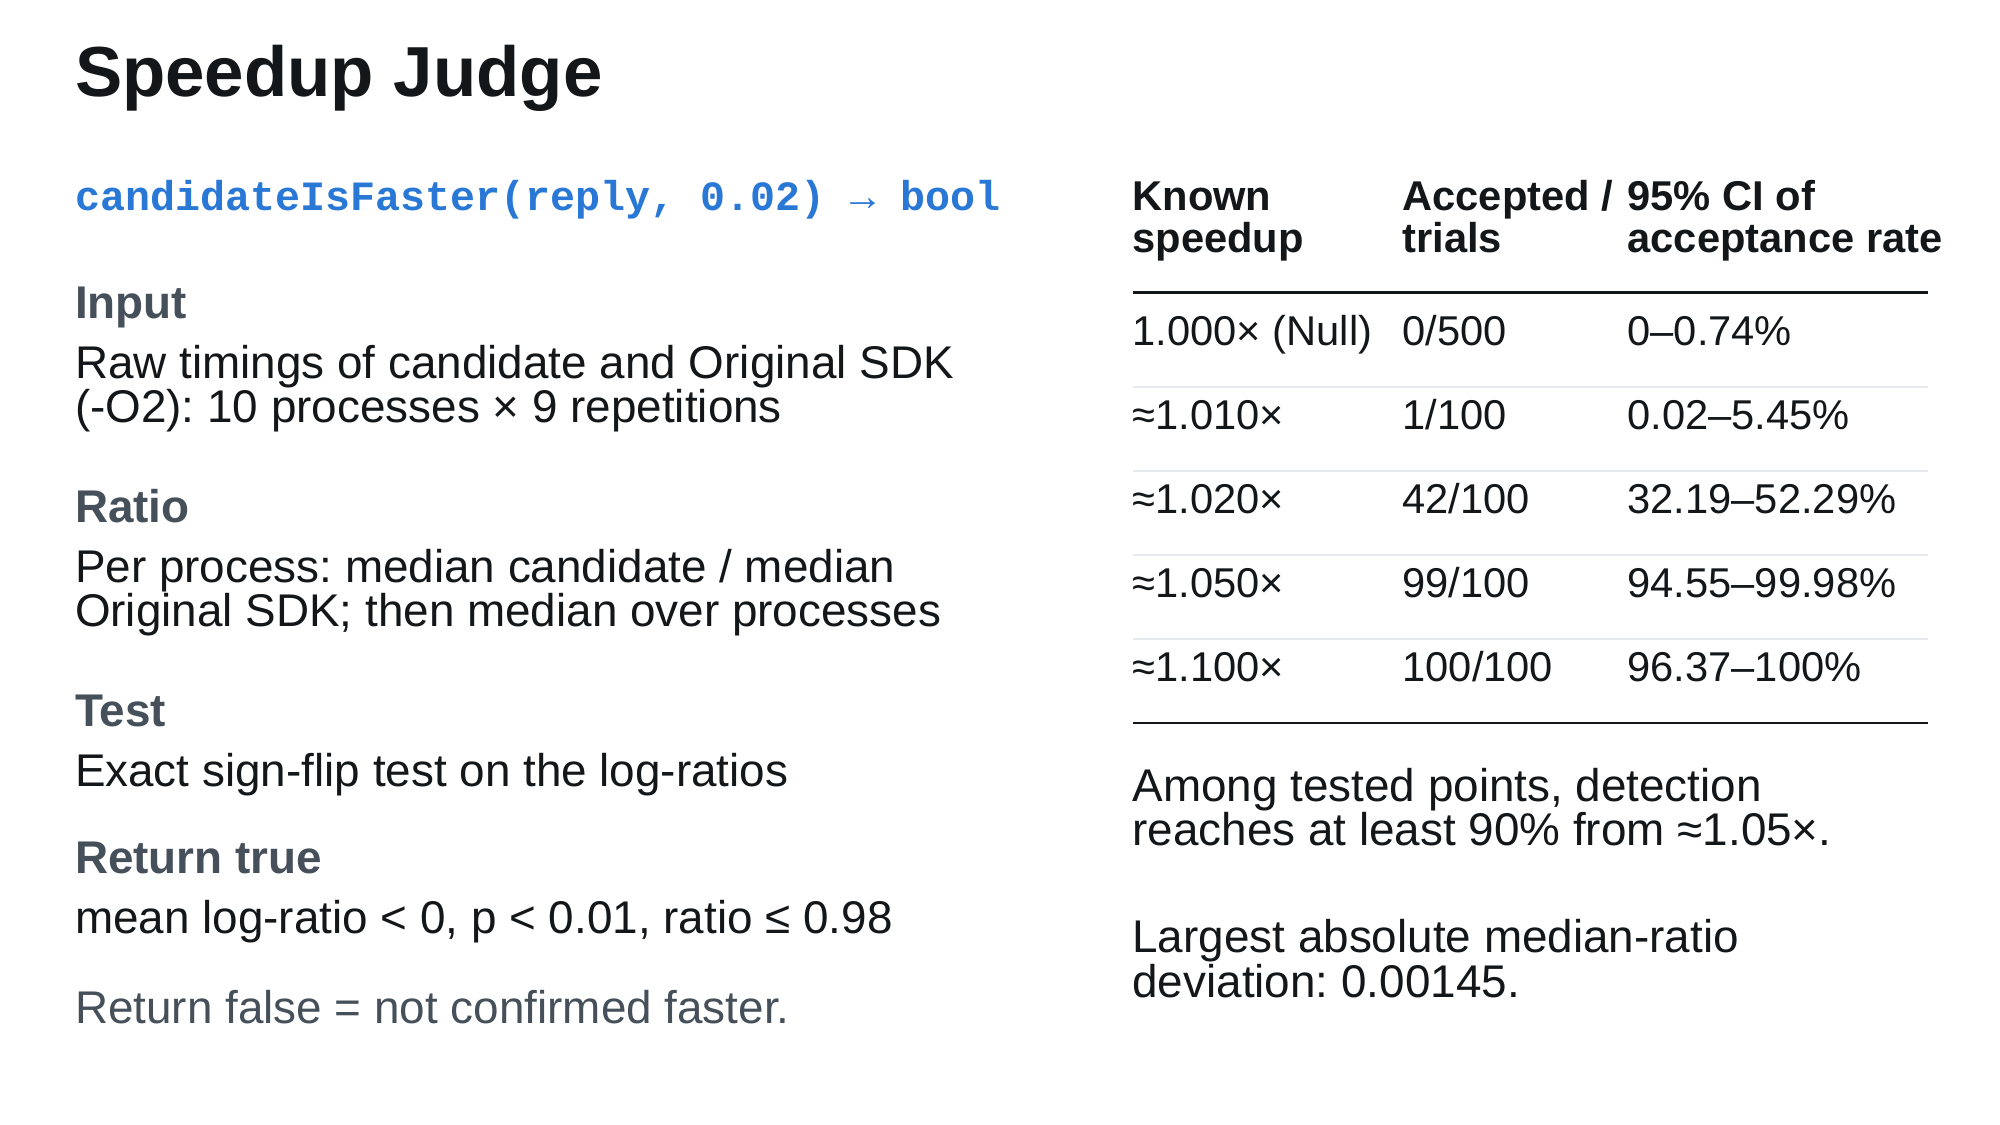
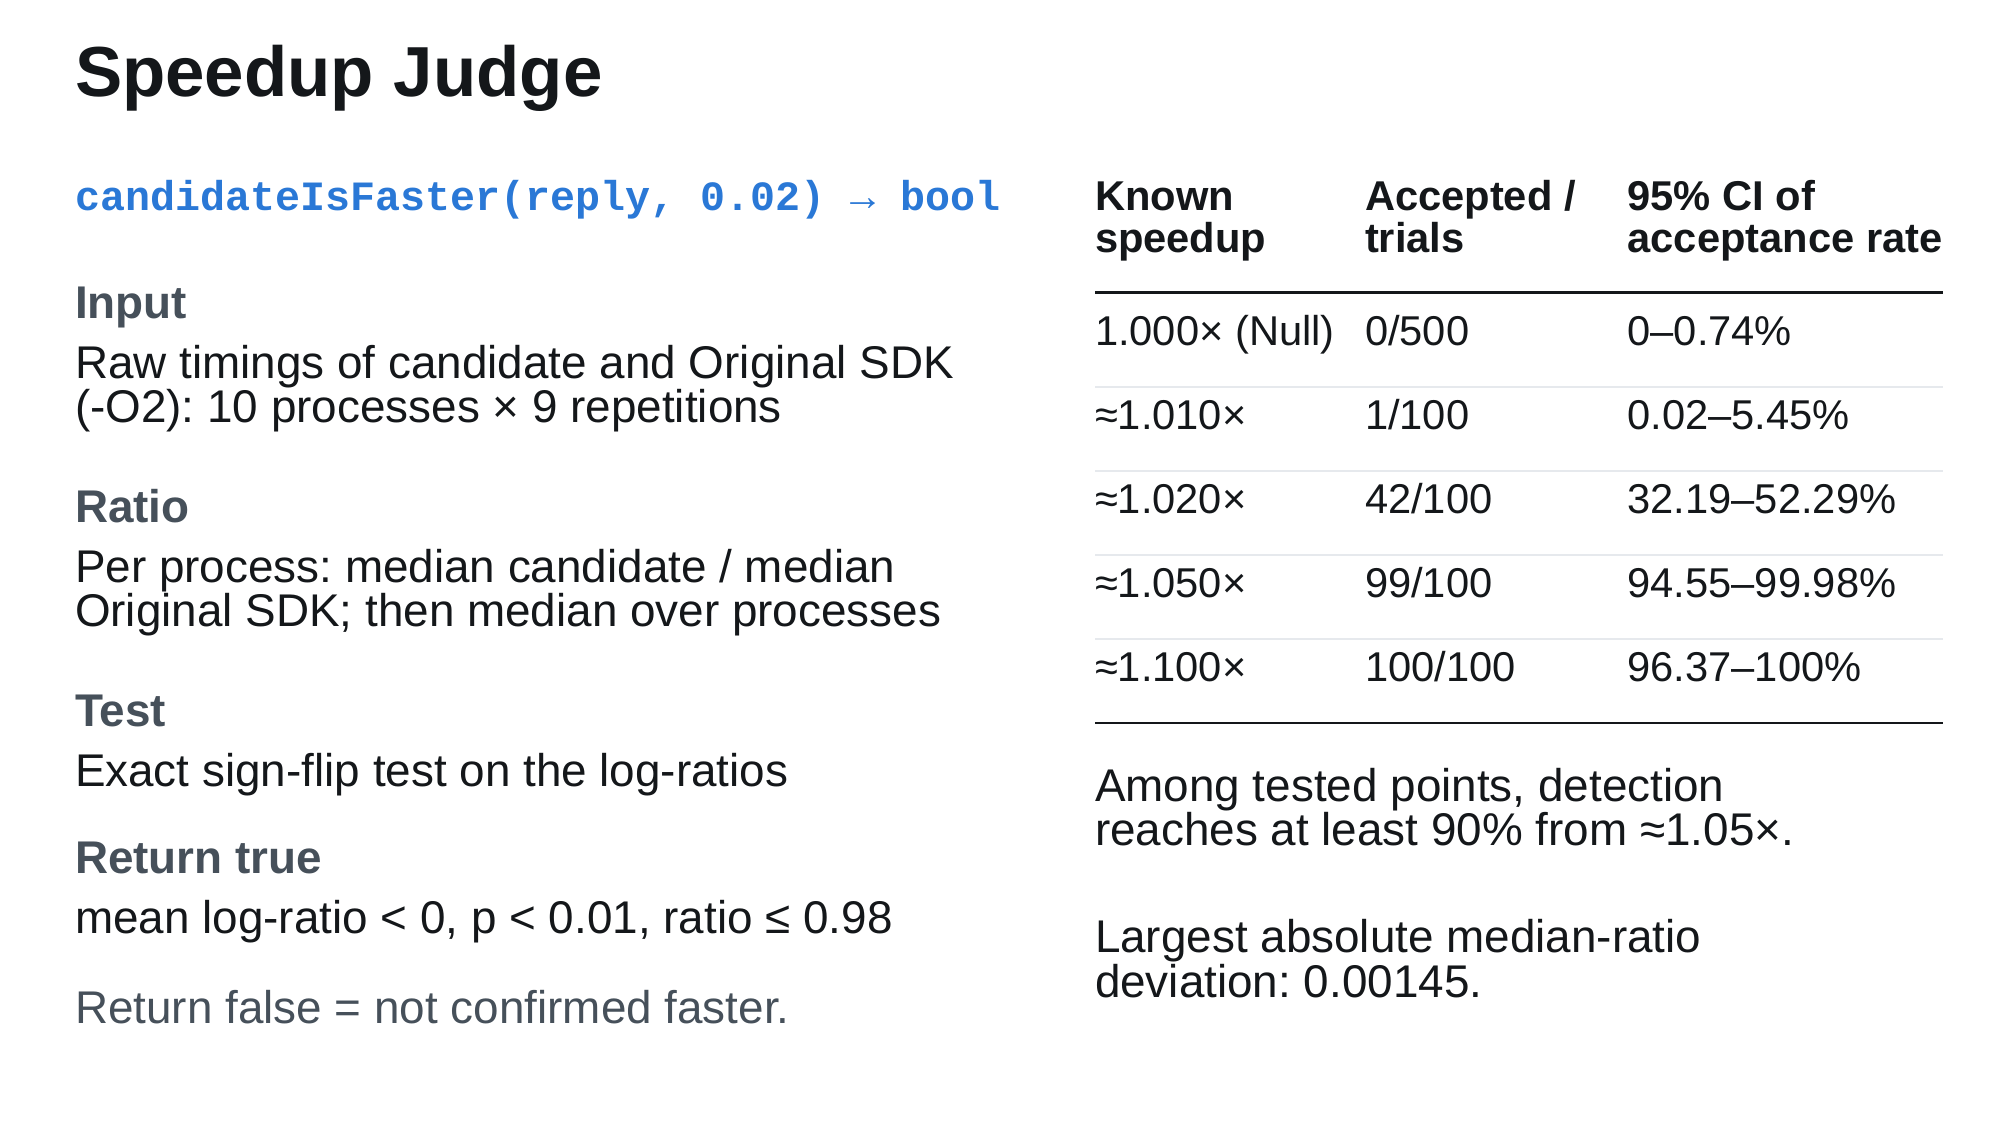
Slides v2: wider table header gaps, per-model colors on page 2, remove two caption lines

diff --git a/presentation_slides/make_slides_v2.py b/presentation_slides/make_slides_v2.py
@@ -16,6 +16,7 @@ HERE = Path(__file__).resolve().parent; DATA = HERE / "data"
 W, H = 13.333, 7.5
 INK, INK2, MUTED, GRID, RULE = "#14171a", "#46505a", "#7a838c", "#e6e9ed", "#b9c0c8"
 BLUE, ORANGE, GREY = "#2a78d6", "#d9780f", "#8d949c"
+Q_POP, Q_BON, D_POP, D_BON = "#c2540a", "#f2a65a", "#1f5fb8", "#7fb2ec"   # Qwen: dark/light orange; DeepSeek: dark/light blue
 plt.rcParams.update({"font.family": "Liberation Sans", "pdf.fonttype": 42, "text.color": INK})
 TITLE, BODY, CELL = 34, 22, 20
 
@@ -60,7 +61,7 @@ def slide1():
     for key, lab in (("faster-1-percent", "\u22481.010\u00d7"), ("faster-2-percent", "\u22481.020\u00d7"), ("faster-5-percent", "\u22481.050\u00d7"), ("faster-10-percent", "\u22481.100\u00d7")):
         r = cal[key]; rows.append((lab, int(r["judged_faster"]), int(r["valid_trials"]), float(r["cp95_lo"]), float(r["cp95_hi"])))
     assert [(a, b) for _, a, b, _, _ in rows] == [(0, 500), (1, 100), (42, 100), (99, 100), (100, 100)]
-    tx = [7.55, 9.35, 10.85]; x_end = 12.85
+    tx = [7.3, 9.1, 10.85]; x_end = 12.95
     T(ax, tx[0], 1.2, "Known\nspeedup", size=CELL, weight="bold", linespacing=1.1)
     T(ax, tx[1], 1.2, "Accepted /\ntrials", size=CELL, weight="bold", linespacing=1.1)
     T(ax, tx[2], 1.2, "95% CI of\nacceptance rate", size=CELL, weight="bold", linespacing=1.1)
@@ -101,14 +102,14 @@ def slide2():
         for meth in ("Population search", "Best-of-N"):
             sel = [r for r in runs if r["model"] == model and r["method"] == meth]; assert len(sel) == 5
             v = [float(r["speedup"]) for r in sel]; tok = st.median([float(r["total_tokens"]) for r in sel])
-            rowsp.append((f"{model}: {meth}", st.median(v), (min(v), max(v)), tok, BLUE if meth.startswith("Pop") else ORANGE))
+            col = {("Qwen", "Population search"): Q_POP, ("Qwen", "Best-of-N"): Q_BON, ("DeepSeek", "Population search"): D_POP, ("DeepSeek", "Best-of-N"): D_BON}[(model, meth)]
+            rowsp.append((f"{model}: {meth}", st.median(v), (min(v), max(v)), tok, col))
     exp = [1.090, 1.108, 1.068, 1.082, 1.0745, 1.0560, 1.1648, 1.0732]
     assert all(abs(r[1] - e) < 6e-4 for r, e in zip(rowsp, exp)), [r[1] for r in rowsp]
     fig, ax = new_slide(); title(ax, "Search Results")
     T(ax, 0.5, 1.0, "Select a function in a parent patch → LLM rewrite → check and time → update population", size=BODY)
     T(ax, 0.5, 1.45, "C3: Best-of-N comparison · C4: 5 seeds, 40 requests per run", size=BODY, weight="bold")
-    T(ax, 0.5, 1.85, "Dot = median · line = full range of the five seeds (not a confidence interval)", size=BODY, color=INK2)
-    AL, AR, AT, AB = 4.45, 9.75, 2.8, 5.45   # axes box in inches (x left/right, y top/bottom of slide)
+    AL, AR, AT, AB = 4.45, 9.75, 2.55, 5.45   # axes box in inches (x left/right, y top/bottom of slide)
     a = fig.add_axes([AL / W, 1 - AB / H, (AR - AL) / W, (AB - AT) / H]); a.set_facecolor("white")
     a.set_xlim(0.99, 1.22); a.set_ylim(len(rowsp) - 0.5, -0.5)
     for sp in ("top", "right", "left"): a.spines[sp].set_visible(False)
@@ -121,7 +122,7 @@ def slide2():
     a.set_xlabel("Speedup relative to Original SDK (-O2)", fontsize=CELL, color=INK2, labelpad=6)
     T(ax, 12.83, AT - 0.12, "Reported\ntokens/run", size=CELL, weight="bold", ha="right", va="bottom", linespacing=1.1)
     for i, (lab, m, rng, tok, col) in enumerate(rowsp):
-        if rng: a.plot(rng, [i, i], color=col, lw=5, solid_capstyle="round", alpha=0.55, zorder=3)
+        if rng: a.plot(rng, [i, i], color=col, lw=5, solid_capstyle="round", alpha=0.6, zorder=3)
         a.scatter([m], [i], s=130, color=col, edgecolor="white", linewidth=1.2, zorder=5)
         xr = (rng[1] if rng else m) + 0.004
         a.text(xr, i, f"{m:.3f}", fontsize=CELL, va="center", ha="left", color=INK, zorder=6)
@@ -165,8 +166,7 @@ def slide3():
         T(ax, cx[0], y, wa, size=CELL, linespacing=1.12); T(ax, cx[1], y, wb, size=CELL, linespacing=1.12)
         T(ax, cx[2], y, c_, size=CELL, weight="bold"); T(ax, cx[3], y, wd, size=CELL, linespacing=1.12)
         hline(ax, 0.5, xe, y + rh - 0.1, color=GRID if i < len(data) - 1 else INK, lw=1.2 if i < len(data) - 1 else 1.6)
-    T(ax, 0.5, 6.35, "A patch can have findings in more than one test.", size=BODY, color=INK2)
-    T(ax, 0.5, 6.8, "The supplied checks did not cover all failures found by the broader tests.", size=24, weight="bold")
+    T(ax, 0.5, 6.5, "The supplied checks did not cover all failures found by the broader tests.", size=24, weight="bold")
     return fig
 
 def main():

diff --git a/presentation_slides/speaker_notes_v2_zh.md b/presentation_slides/speaker_notes_v2_zh.md
@@ -13,7 +13,7 @@
 
 ## 第 2 页 Search Results(约 90 秒)
 - 搜索逻辑(一行):从父补丁选函数 → LLM 改写 → 检查并测速 → 更新种群。细节(种群 ≤6、失败反馈、提示词、函数选择概率)不在页面上讲。
-- 图:横轴是相对原版 SDK(-O2)的加速比,虚线 1.000×。点是中位数;四个模型配置的横线是 5 个种子的完整最小–最大范围,不是置信区间。C1/C2 只有中位数:它们是单独批次的重复测量,不是独立搜索种子。
+- 图:横轴是相对原版 SDK(-O2)的加速比,虚线 1.000×。配色:Qwen 为橙色(深=种群搜索,浅=best-of-N),DeepSeek 为蓝色(深=种群搜索,浅=best-of-N),C1/C2 灰色。点是中位数;四个模型配置的横线是 5 个种子的完整最小–最大范围(页面上已删除这句说明,口头需讲明:不是置信区间)。C1/C2 只有中位数:它们是单独批次的重复测量,不是独立搜索种子。
 - C3:匹配的 best-of-N 对照(同模型、同提示、每次从原库出发,无历史与反馈);C4:每个配置 5 个种子,每个运行 40 次实际 HTTP 请求。
 - 数值:Qwen 种群 1.0745 [1.0307, 1.1237];Qwen best-of-N 1.0560 [1.0389, 1.0727];DeepSeek 种群 1.1648 [1.1375, 1.1811];DeepSeek best-of-N 1.0732 [1.0685, 1.0737]。均为最终补丁独立复测 3 次的中位数,再取 5 个种子的中位数。
 - C1:-O3 为两个批次中位数的中位(1.0911、1.0898 → 1.090);-O3 -march=native 1.108(该选项更早一批无效,不用)。C2:人工指导、AI 辅助的两个补丁,1.068 和 1.082(同一作业内各 5 次测量,没有正式的一小时计时记录)。
@@ -28,7 +28,7 @@
   - 变异输入差分(400 个变异文件):1/20 比原版多出崩溃(DeepSeek 种群 s1)。变异文件不是合法输入,这里只数"新增崩溃"。
   - ASan/UBSan(至多 126 个文件,单线程):1/20 出现新的内存/未定义行为报告(同一个补丁,ASan 运行未跑完)。
   - TSan(4 线程,至多 24 个文件):15/20 有数据竞争报告;这只是报告,不等于已出现错误输出(其中多数没有观察到输出摘要不一致)。
-- 各行允许重叠,四行相加不是不同补丁数。20 个补丁的分布:仅有竞争报告 12 个;在差分/崩溃/内存测试中有发现的 4 个(DeepSeek 种群 s1:崩溃 + ASan/UBSan + 竞争;DeepSeek 种群 s2、Qwen 种群 s3:合法文件输出不同 + 竞争;Qwen 种群 s4:仅合法文件输出不同,无竞争报告);4 个补丁没有检出(不等于证明正确)。15 = 12 + 3,是全部有竞争报告的补丁。
+- 口头要讲明(页面上已删除这句):一个补丁可能在多于一类测试中都有发现,各行允许重叠,四行相加不是不同补丁数。20 个补丁的分布:仅有竞争报告 12 个;在差分/崩溃/内存测试中有发现的 4 个(DeepSeek 种群 s1:崩溃 + ASan/UBSan + 竞争;DeepSeek 种群 s2、Qwen 种群 s3:合法文件输出不同 + 竞争;Qwen 种群 s4:仅合法文件输出不同,无竞争报告);4 个补丁没有检出(不等于证明正确)。15 = 12 + 3,是全部有竞争报告的补丁。
 - 结论:提供的检查没有覆盖更广测试中发现的全部问题。
 - 口径:这些测试是附加验证,不是搜索时的准入规则;语料有限(合法 55、变异 400),没有发现问题不等于正确。对原库本身,变异语料有 177 个文件抛异常,这里不展开。
 - 与上一版的区别:上一版写的 16/20 是"任何扩大测试有发现"的补丁数(= 15 个 TSan + 1 个只有输出差异),v2 按测试类型分开统计,TSan 为 15/20。
